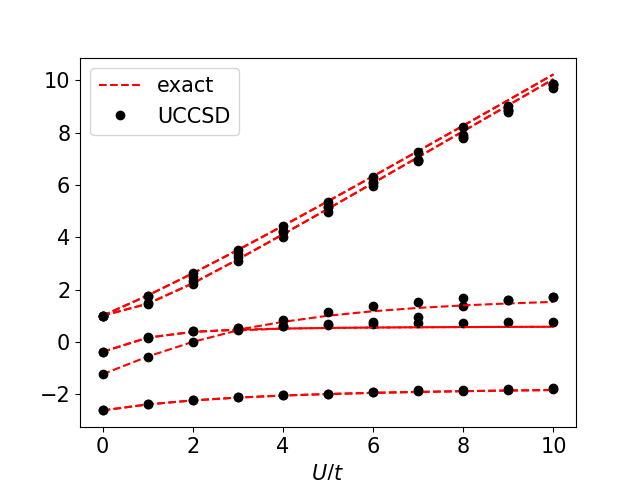
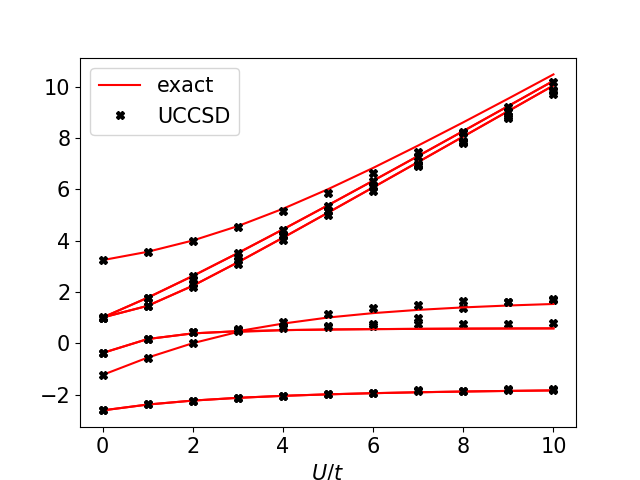
L = 6

diff --git a/Figures/L = 6/grafs.py b/Figures/L = 6/grafs.py
@@ -12,90 +12,90 @@ from scipy.interpolate import make_interp_spline
 from scipy.interpolate import Rbf, InterpolatedUnivariateSpline
 from scipy.interpolate import interp1d
 
-nf = 28
+nf = 15
 
-list2 =  pickle.load( open( "list62.p", "rb" ) )
-list1 =  pickle.load( open( "list62.p", "rb" ) )
 
-print(list2)
-print(list1)
+l1 = [[-2.00000000e+00,2.00000000e+00,3.00000000e+00,-3.00000000e+00,-3.00000000e+00,3.00000000e+00,-1.00000000e+00,-1.00000000e+00,1.00000000e+00,1.00000000e+00,1.86470938e-15,-1.40322342e-15,-1.28636820e-18,-1.13272247e-16,-1.11032642e-16],[1.62732662e+00,3.19036225e+00,3.18680359e+00,6.69049421e-01,-6.05588805e-01,1.61163386e+00,1.90812652e-03,-6.19178644e-01,1.00536711e+00,-2.86717714e+00,6.86184569e-01,1.65156916e-03,2.53078413e+00,-1.55284364e+00,-2.86628302e+00],
+[2.41745834e+00,3.55885542e+00,3.55879641e+00,1.20498449e+00,-4.13218634e-01,2.42596060e+00,3.13946468e-04,-4.19321339e-01,2.02009572e+00,-2.78268687e+00,1.21576794e+00,5.12127844e-03,3.21800358e+00,-1.22925780e+00,-2.78087308e+00],
+[3.32351907e+00,4.11013588e+00,4.11175461e+00,1.60039820e+00,-2.98501707e-01,3.31117633e+00,-2.59174668e-03,-3.05738622e-01,2.99979303e+00,-2.72525527e+00,1.61569795e+00,-1.29344327e-03,3.97975543e+00,-9.93833697e-01,-2.72501601e+00],
+[4.24034364e+00,4.82759091e+00,4.82696776e+00,1.84918079e+00,-2.33919951e-01,4.25231041e+00,-1.19350639e-03,-2.36177175e-01,4.00102832e+00,-2.68399151e+00,1.85730391e+00,3.61766637e-05,4.81196286e+00,-8.27657374e-01,-2.68378525e+00],
+[5.19457584e+00,5.64732185e+00,5.64695488e+00,2.00008974e+00,-1.91786518e-01,5.21050326e+00,-3.91607332e-04,-1.92699677e-01,5.00411760e+00,-2.65315946e+00,2.00777614e+00,-2.45415441e-04,5.68057485e+00,-7.00496021e-01,-2.65313544e+00],
+[6.16542294e+00,6.52948135e+00,6.52933251e+00,2.09502967e+00,-1.61185510e-01,6.18870961e+00,2.86129070e-05,-1.63155209e-01,5.99082288e+00,-2.62913969e+00,2.11354316e+00,-1.46535389e-04,6.57419081e+00,-6.03833734e-01,-2.62910086e+00],
+[7.14473676e+00,7.44728724e+00,7.44766971e+00,2.15883385e+00,-1.39018885e-01,7.16907035e+00,1.23114592e-04,-1.41181795e-01,6.97534354e+00,-2.61002285e+00,2.19257453e+00,-4.10641144e-04,7.49366775e+00,-5.28896865e-01,-2.60977580e+00],
+[8.12714825e+00,8.38614239e+00,8.38761514e+00,2.20205347e+00,-1.21777653e-01,8.15337623e+00,5.55124186e-04,-1.25101045e-01,7.96497606e+00,-2.59424204e+00,2.24706290e+00,2.11122076e-03,8.43275981e+00,-4.69055269e-01,-2.59362459e+00],
+[9.11144350e+00,9.34149874e+00,9.34167628e+00,2.23585738e+00,-1.09148923e-01,9.13802565e+00,2.02971142e-03,-1.13848600e-01,8.97040509e+00,-2.58166904e+00,2.27565815e+00,3.91230124e-04,9.38905424e+00,-4.19710595e-01,-2.58166282e+00],
+[1.01007715e+01,1.03053804e+01,1.03057805e+01,2.26189135e+00,-9.82802710e-02,1.01266955e+01,2.32946071e-03,-1.03282564e-01,9.96183269e+00,-2.57075704e+00,2.30886886e+00,-3.97864988e-04,1.03498060e+01,-3.80193400e-01,-2.57044518e+00]]
+
+
+l2 = [[-2.00000000e+00+2.65083360e-17j,2.00000000e+00+4.31813497e-17j,3.00000000e+00+4.13217274e-17j,-3.00000000e+00-1.35661518e-17j,-3.00000000e+00-5.55111512e-17j,3.00000000e+00+2.21854870e-17j,-1.00000000e+00-1.08419689e-17j,-1.00000000e+00-2.84543778e-17j,1.00000000e+00-2.51534904e-17j,1.00000000e+00+2.53432258e-17j,1.86470938e-15+3.26488145e-17j,-1.40322342e-15+1.81156191e-17j,-1.28636820e-18+1.11229389e-16j,-1.13272247e-16-7.90586708e-17j,-1.11032642e-16-1.53148502e-19j],
+[1.00000000e+00+7.97296296e-17j,-1.56155281e+00-6.02038078e-18j,2.56155281e+00-1.04306513e-16j,3.03371065e-16-4.67107517e-17j,-5.78754844e-16+1.64513885e-16j,-2.86781598e+00+1.04826814e-23j,-2.86781598e+00+9.88792381e-17j,3.21758071e+00-1.95250217e-16j,
+3.21758071e+00-1.14952535e-16j,-6.18033989e-01-5.55111512e-17j,-6.18033989e-01+1.38777878e-17j,1.61803399e+00+6.93860685e-17j,
+1.61803399e+00+1.16768574e-16j,6.50235267e-01-1.38777878e-16j,6.50235267e-01-1.62413485e-16j],[2.00000000e+00+1.59459259e-16j,-1.23606798e+00-5.03911466e-17j,3.23606798e+00-1.16932128e-16j,3.54065793e-16-1.11069023e-16j,-1.18608891e-16+2.87782415e-16j,-2.78308827e+00+5.55111502e-17j,-2.78308827e+00+3.95516953e-16j,3.57802063e+00-5.76669291e-16j,
+-4.14213562e-01-1.24900090e-16j,-4.14213562e-01+2.77555756e-17j,3.57802063e+00-1.66027545e-16j,2.41421356e+00-1.38777871e-16j,
+2.41421356e+00+7.48099499e-17j,1.20506764e+00-1.94289029e-16j,1.20506764e+00-2.22044605e-16j],[3.00000000e+00+2.39188889e-16j,-1.00000000e+00-1.08300044e-16j,1.96353263e-16-1.62203925e-16j,-6.36077303e-16+1.69664313e-16j,4.00000000e+00-7.03678287e-17j,-2.72544874e+00-1.66526345e-16j,-2.72544874e+00+5.03069808e-17j,1.60146556e+00-2.71613575e-17j,
+-3.02775638e-01+1.52655666e-16j,-3.02775638e-01-2.87638836e-16j,1.60146556e+00-1.17303412e-16j,4.12398318e+00-1.11022302e-16j,
+4.12398318e+00-6.42281367e-16j,3.30277564e+00-8.32667269e-17j,3.30277564e+00-4.58617519e-17j],[4.00000000e+00+3.18918518e-16j,-8.28427125e-01-1.68924444e-16j,2.55155210e-16-2.09647035e-16j,-5.98584341e-16+4.65205148e-16j,-2.68415920e+00-1.21430640e-16j,-2.68415920e+00-1.29995840e-16j,4.82842712e+00-3.57627810e-16j,-2.36067977e-01+1.44849410e-16j,
+-2.36067977e-01+1.33854923e-16j,1.84938116e+00+9.46329748e-23j,1.84938116e+00-2.77555756e-17j,4.23606798e+00-3.33066914e-16j,
+4.23606798e+00+9.88507778e-16j,4.83477804e+00+3.73842320e-16j,4.83477804e+00+7.44907812e-18j],[5.00000000e+00+3.98648148e-16j,-7.01562119e-01-1.21628093e-16j,2.59628033e-16-2.68573581e-16j,-1.67730240e-15+8.52478307e-16j,5.70156212e+00-2.79190657e-16j,-2.65331193e+00-4.99600361e-16j,-2.65331193e+00+3.70363462e-16j,5.19258240e+00-1.69292744e-16j,
+2.00000000e+00-6.66133815e-16j,2.00000000e+00-4.99600361e-16j,5.19258240e+00+7.96646629e-16j,5.65331193e+00-4.63221535e-16j,
+5.65331193e+00+1.32237084e-16j,-1.92582404e-01+8.32667268e-17j,-1.92582404e-01+2.42861287e-16j],[6.00000000e+00+4.78377778e-16j,-6.05551275e-01-1.87885117e-16j,3.96151874e-16-2.72530338e-16j,-4.02451444e-16+8.96360347e-16j,6.60555128e+00-3.03001419e-17j,-2.62947240e+00+4.44194596e-16j,-2.62947240e+00+1.38777878e-17j,2.09527928e+00-8.74538018e-16j,
+2.09527928e+00-6.24500451e-16j,-1.62277660e-01+3.22658567e-16j,-1.62277660e-01-6.48217374e-17j,6.16227766e+00+2.08166817e-16j,
+6.16227766e+00+2.87047607e-16j,6.53419311e+00+4.10965474e-23j,6.53419311e+00+4.77048956e-18j],[7.00000000e+00+5.58107407e-16j,-5.31128874e-01-3.92300469e-16j,7.53112887e+00+2.29255712e-17j,-3.39573803e-17-2.88324354e-16j,-6.55708636e-16+8.31868423e-16j,-2.61053599e+00-2.22044808e-16j,-2.61053599e+00+6.13441589e-16j,2.15914811e+00-1.27559999e-15j,
+2.15914811e+00-6.20597324e-16j,7.45138788e+00-9.98352469e-16j,7.45138788e+00-7.59640746e-16j,7.14005494e+00+5.54847079e-17j,
+7.14005494e+00-8.28052633e-16j,-1.40054945e-01+3.05311332e-16j,-1.40054945e-01+1.11875434e-15j],[8.00000000e+00+6.37837037e-16j,-4.72135955e-01-4.15627055e-16j,-1.14037770e-17-1.98188655e-16j,-1.75094586e-16+7.10342564e-16j,8.47213595e+00+8.97420621e-17j,-2.59515183e+00+1.66532622e-16j,
+-2.59515183e+00+2.15105711e-16j,2.20431179e+00+0.00000000e+00j,2.20431179e+00-8.88178420e-16j,8.12310563e+00+1.57503157e-22j,
+8.12310563e+00+2.97396656e-16j,8.39084004e+00-4.44089210e-16j,8.39084004e+00-9.08995101e-16j,-1.23105626e-01+1.25333771e-16j,
+-1.23105626e-01+1.02754414e-16j],[9.00000000e+00+7.17566666e-16j,-4.24428901e-01-3.90718508e-16j,
+-5.50429718e-16-1.77758114e-16j,5.07557546e-16+7.51769560e-16j,9.42442890e+00-7.08670681e-16j,-2.58241756e+00+2.49800170e-16j,
+-2.58241756e+00-4.77048956e-16j,9.10977223e+00-2.10695826e-16j,2.23769493e+00-9.11632671e-16j,2.23769493e+00-1.44155333e-16j,
+9.10977223e+00+5.53453404e-16j,9.34472262e+00-3.35040834e-21j,9.34472262e+00+5.50341023e-16j,-1.09772229e-01+5.94142791e-17j,
+-1.09772229e-01+9.85268724e-17j],[1.00000000e+01+7.97296296e-16j,-3.85164807e-01+2.40270912e-16j,-2.90251737e-16-5.63083032e-16j,-2.17650397e-15+1.35607278e-15j,
+1.03851648e+01-4.61902341e-16j,-2.57170949e+00-4.85722249e-17j,-2.57170949e+00+7.71951947e-17j,1.00990195e+01-1.15160897e-16j,
+2.26327034e+00-2.04184020e-15j,2.26327034e+00+1.38341431e-16j,1.00990195e+01-1.84269167e-16j,1.03084391e+01-8.88179819e-16j,
+1.03084391e+01-2.78423118e-16j,-9.90195136e-02+6.01081684e-16j,-9.90195136e-02+3.19622800e-16j]]
+
+list1 = np.array(l1)
+list2 = np.array(l2)
 
 FI1 =[0,1,2,3,4,5, 6, 7, 8, 9,10]
 FI1 = np.array(FI1)
 
 
-
 eigenor= np.zeros((11,nf))
 eigennumor = np.zeros((11,nf))
-gap = np.zeros(11)
-gapnum = np.zeros(11)
-gap2 = np.zeros(11)
-gapnum2 = np.zeros(11)
-gap3 = np.zeros(11)
-gapnum3 = np.zeros(11)
-gap4 = np.zeros(11)
-gapnum4 = np.zeros(11)
-gap5 = np.zeros(11)
-gapnum5 = np.zeros(11)
-gap6 = np.zeros(11)
-gapnum6 = np.zeros(11)
-gap7 = np.zeros(11)
-gapnum7 = np.zeros(11)
-gap8 = np.zeros(11)
-gapnum8 = np.zeros(11)
+gap = np.zeros((11,nf-1))
+gapnum = np.zeros((11,nf-1))
 
 for u in range(11):
    eigenor[u] = list(list2.real[u])
    eigenor[u].sort() 
    eigennumor[u] = list(list1.real[u])
-   eigennumor[u].sort()   
-   gap[u] = eigenor[u,1]-eigenor[u,0]
-   gapnum[u] = eigennumor[u][1]-eigennumor[u][0]
-   gap2[u] = eigenor[u,2]-eigenor[u,0]
-   gapnum2[u] = eigennumor[u][2]-eigennumor[u][1]
-   gap3[u] = eigenor[u,3]-eigenor[u,0]
-   gapnum3[u] = eigennumor[u][3]-eigennumor[u][0]
-   gap4[u] = eigenor[u,4]-eigenor[u,0]
-   gapnum4[u] = eigennumor[u][4]-eigennumor[u][0]
-   gap5[u] = eigenor[u,5]-eigenor[u,0]
-   gapnum5[u] = eigennumor[u][5]-eigennumor[u][0]
-   gap6[u] = eigenor[u,6]-eigenor[u,0]
-   gapnum6[u] = eigennumor[u][6]-eigennumor[u][0]
-   gap7[u] = eigenor[u,7]-eigenor[u,0]
-   gapnum7[u] = eigennumor[u][7]-eigennumor[u][0]
-   gap8[u] = eigenor[u,8]-eigenor[u,0]
-   gapnum8[u] = eigennumor[u][8]-eigennumor[u][0]
+   eigennumor[u].sort()  
+   for j in range(5):
+      gap[u,j] = eigenor[u,j+1]-eigenor[u,1]
+      gapnum[u,j] = eigennumor[u][j+1]-eigennumor[u][1]
+   for j in range(5,nf-1):
+      gap[u,j] = eigenor[u,j+1]-eigenor[u,0]
+      gapnum[u,j] = eigennumor[u][j+1]-eigennumor[u][0]
  
-
 plt.rc('axes', labelsize=15)
 plt.rc('font', size=15)  
-for i in range(nf-2):
-   plt.plot(FI1, eigenor[:,i],'r--')
-   plt.plot(FI1, eigennumor[:,i],'ko')
-plt.plot(FI1, eigenor[:,nf-2],'r--', mfc='none',label='exact')
-plt.plot(FI1, eigennumor[:,nf-2],'ko', label='UCCSD')
+for i in range(nf-1):
+   plt.plot(FI1, eigenor[:,i],'r-')
+   plt.plot(FI1, eigennumor[:,i],'ko',mfc='none')
+plt.plot(FI1, eigenor[:,nf-1],'r-', mfc='none',label='exact')
+plt.plot(FI1, eigennumor[:,nf-1],'ko', mfc='none',label='UCCSD')
 plt.legend(prop={"size":15},loc='upper left')
 plt.xlabel("$U/t$")
 plt.show()
 
 plt.rc('axes', labelsize=15)
-plt.rc('font', size=15)  
-plt.plot(FI1, gap,'r--')
-plt.plot(FI1, gapnum,'ko') 
-plt.plot(FI1, gap2,'r--')
-plt.plot(FI1, gapnum2,'ko')
-plt.plot(FI1, gap3,'r--')
-plt.plot(FI1, gapnum3,'ko')
-plt.plot(FI1, gap4,'r--')
-plt.plot(FI1, gapnum4,'ko') 
-plt.plot(FI1, gap5,'r--')
-plt.plot(FI1, gapnum5,'ko') 
-plt.plot(FI1, gap6,'r--')
-plt.plot(FI1, gapnum6,'ko') 
-plt.plot(FI1, gap7,'r--')
-plt.plot(FI1, gapnum7,'ko') 
-plt.plot(FI1, gap8,'r--', mfc='none',label='exact')
-plt.plot(FI1, gapnum8,'ko',label='UCCSD') 
+plt.rc('font', size=15) 
+for i in range(nf-2):
+   plt.plot(FI1, gap[:,i],'r-')
+   plt.plot(FI1, gapnum[:,i],'ko',mfc='none') 
+plt.plot(FI1, gap[:,nf-2],'r-', mfc='none',label='exact')
+plt.plot(FI1, gapnum[:,nf-2],'ko',mfc='none',label='UCCSD')
 plt.legend(prop={"size":15},loc='upper left')
 plt.xlabel("$U/t$")
 plt.show()
@@ -115,14 +115,14 @@ def func(vec, vec1):
 error = np.zeros(11)
 errorT = 0
 for i in range(11):
-   error[i] = func(list1[i],list2[i])   
-   print(func(list1[i],list2[i]))
+   error[i] = func(gap[i],gapnum[i])   
+   print(func(gap[i],gapnum[i]))
    errorT += error[i]
 
 print("Total error: ", errorT/11)
 
-plt.plot(FI1, error,'kX',label='error')
-plt.legend(prop={"size":15},loc='upper left')
+plt.plot(FI1, error,'ko',mfc='none',label='error')
+plt.legend(prop={"size":15},loc='lower right')
 plt.xlabel("$U/t$")
 plt.show()
 

diff --git a/Figures/L = 5/grafs.py b/Figures/L = 5/grafs.py
@@ -21,78 +21,41 @@ FI1 =[0,1,2,3,4,5, 6, 7, 8, 9,10]
 FI1 = np.array(FI1)
 
 
-
 eigenor= np.zeros((11,nf))
 eigennumor = np.zeros((11,nf))
-gap = np.zeros(11)
-gapnum = np.zeros(11)
-gap2 = np.zeros(11)
-gapnum2 = np.zeros(11)
-gap3 = np.zeros(11)
-gapnum3 = np.zeros(11)
-gap4 = np.zeros(11)
-gapnum4 = np.zeros(11)
-gap5 = np.zeros(11)
-gapnum5 = np.zeros(11)
-gap6 = np.zeros(11)
-gapnum6 = np.zeros(11)
-gap7 = np.zeros(11)
-gapnum7 = np.zeros(11)
-gap8 = np.zeros(11)
-gapnum8 = np.zeros(11)
+gap = np.zeros((11,nf-1))
+gapnum = np.zeros((11,nf-1))
 
 for u in range(11):
    eigenor[u] = list(list2.real[u])
    eigenor[u].sort() 
    eigennumor[u] = list(list1.real[u])
-   eigennumor[u].sort()   
-   gap[u] = eigenor[u,1]-eigenor[u,0]
-   gapnum[u] = eigennumor[u][1]-eigennumor[u][0]
-   gap2[u] = eigenor[u,2]-eigenor[u,0]
-   gapnum2[u] = eigennumor[u][2]-eigennumor[u][1]
-   gap3[u] = eigenor[u,3]-eigenor[u,0]
-   gapnum3[u] = eigennumor[u][3]-eigennumor[u][0]
-   gap4[u] = eigenor[u,4]-eigenor[u,0]
-   gapnum4[u] = eigennumor[u][4]-eigennumor[u][0]
-   gap5[u] = eigenor[u,5]-eigenor[u,0]
-   gapnum5[u] = eigennumor[u][5]-eigennumor[u][0]
-   gap6[u] = eigenor[u,6]-eigenor[u,0]
-   gapnum6[u] = eigennumor[u][6]-eigennumor[u][0]
-   gap7[u] = eigenor[u,7]-eigenor[u,0]
-   gapnum7[u] = eigennumor[u][7]-eigennumor[u][0]
-   gap8[u] = eigenor[u,8]-eigenor[u,0]
-   gapnum8[u] = eigennumor[u][8]-eigennumor[u][0]
+   eigennumor[u].sort()  
+   for j in range(5):
+      gap[u,j] = eigenor[u,j+1]-eigenor[u,1]
+      gapnum[u,j] = eigennumor[u][j+1]-eigennumor[u][1]
+   for j in range(5,nf-1):
+      gap[u,j] = eigenor[u,j+1]-eigenor[u,0]
+      gapnum[u,j] = eigennumor[u][j+1]-eigennumor[u][0]
  
-
 plt.rc('axes', labelsize=15)
 plt.rc('font', size=15)  
-for i in range(nf-2):
-   plt.plot(FI1, eigenor[:,i],'r--')
-   plt.plot(FI1, eigennumor[:,i],'ko')
-plt.plot(FI1, eigenor[:,nf-2],'r--', mfc='none',label='exact')
-plt.plot(FI1, eigennumor[:,nf-2],'ko', label='UCCSD')
+for i in range(nf-1):
+   plt.plot(FI1, eigenor[:,i],'r-')
+   plt.plot(FI1, eigennumor[:,i],'kX')
+plt.plot(FI1, eigenor[:,nf-1],'r-', mfc='none',label='exact')
+plt.plot(FI1, eigennumor[:,nf-1],'kX', label='UCCSD')
 plt.legend(prop={"size":15},loc='upper left')
 plt.xlabel("$U/t$")
 plt.show()
 
 plt.rc('axes', labelsize=15)
-plt.rc('font', size=15)  
-plt.plot(FI1, gap,'r--')
-plt.plot(FI1, gapnum,'ko') 
-plt.plot(FI1, gap2,'r--')
-plt.plot(FI1, gapnum2,'ko')
-plt.plot(FI1, gap3,'r--')
-plt.plot(FI1, gapnum3,'ko')
-plt.plot(FI1, gap4,'r--')
-plt.plot(FI1, gapnum4,'ko') 
-plt.plot(FI1, gap5,'r--')
-plt.plot(FI1, gapnum5,'ko') 
-plt.plot(FI1, gap6,'r--')
-plt.plot(FI1, gapnum6,'ko') 
-plt.plot(FI1, gap7,'r--')
-plt.plot(FI1, gapnum7,'ko') 
-plt.plot(FI1, gap8,'r--', mfc='none',label='exact')
-plt.plot(FI1, gapnum8,'ko',label='UCCSD') 
+plt.rc('font', size=15) 
+for i in range(nf-2):
+   plt.plot(FI1, gap[:,i],'r-')
+   plt.plot(FI1, gapnum[:,i],'kX') 
+plt.plot(FI1, gap[:,nf-2],'r-', mfc='none',label='exact')
+plt.plot(FI1, gapnum[:,nf-2],'kX', label='UCCSD')
 plt.legend(prop={"size":15},loc='upper left')
 plt.xlabel("$U/t$")
 plt.show()
@@ -112,8 +75,8 @@ def func(vec, vec1):
 error = np.zeros(11)
 errorT = 0
 for i in range(11):
-   error[i] = func(list1[i],list2[i])   
-   print(func(list1[i],list2[i]))
+   error[i] = func(gap[i],gapnum[i])   
+   print(func(gap[i],gapnum[i]))
    errorT += error[i]
 
 print("Total error: ", errorT/11)

diff --git a/wfield.py b/wfield.py
@@ -259,8 +259,10 @@ seed=list(np.full(2*len(Doubles)+2*len(res2),0))
 for u in range(11):
    print("I am computing the energies for the coupling u: ", u)
    fun = function(weights,res2,Ham(Ham1,Ham2,u))
-   #seed = optimize.fmin(fun.evalua, seed,maxfun=100000,maxiter=100000,ftol=1e-2,xtol=1e-2)
-   seed = gradient_descent(fun.grad,seed,0.1,500,1e-03)
+   #seed = gradient_descent(fun.grad,seed,0.2,5,5e-03)
+   print(seed)
+   seed = optimize.fmin(fun.evalua, seed,maxfun=100000,maxiter=100000,ftol=1e-4,xtol=1e-4)
+   print(seed)
    vec=np.zeros(len(weights))
    vecaux=np.zeros(nf)
    for i in range(nf):
@@ -268,6 +270,7 @@ for u in range(11):
       vec[ni + i]=1
       eigennum[u,i] = np.matmul(np.matmul(vec,Unit(seed,res2,Ham(Ham1,Ham2,u))),vec)
    print(eigennum[u])
+   print(eigen[u])
    eigenor[u] = list(eigen.real[u])
    eigenor[u].sort() 
    eigennumor[u] = list(eigennum.real[u])
